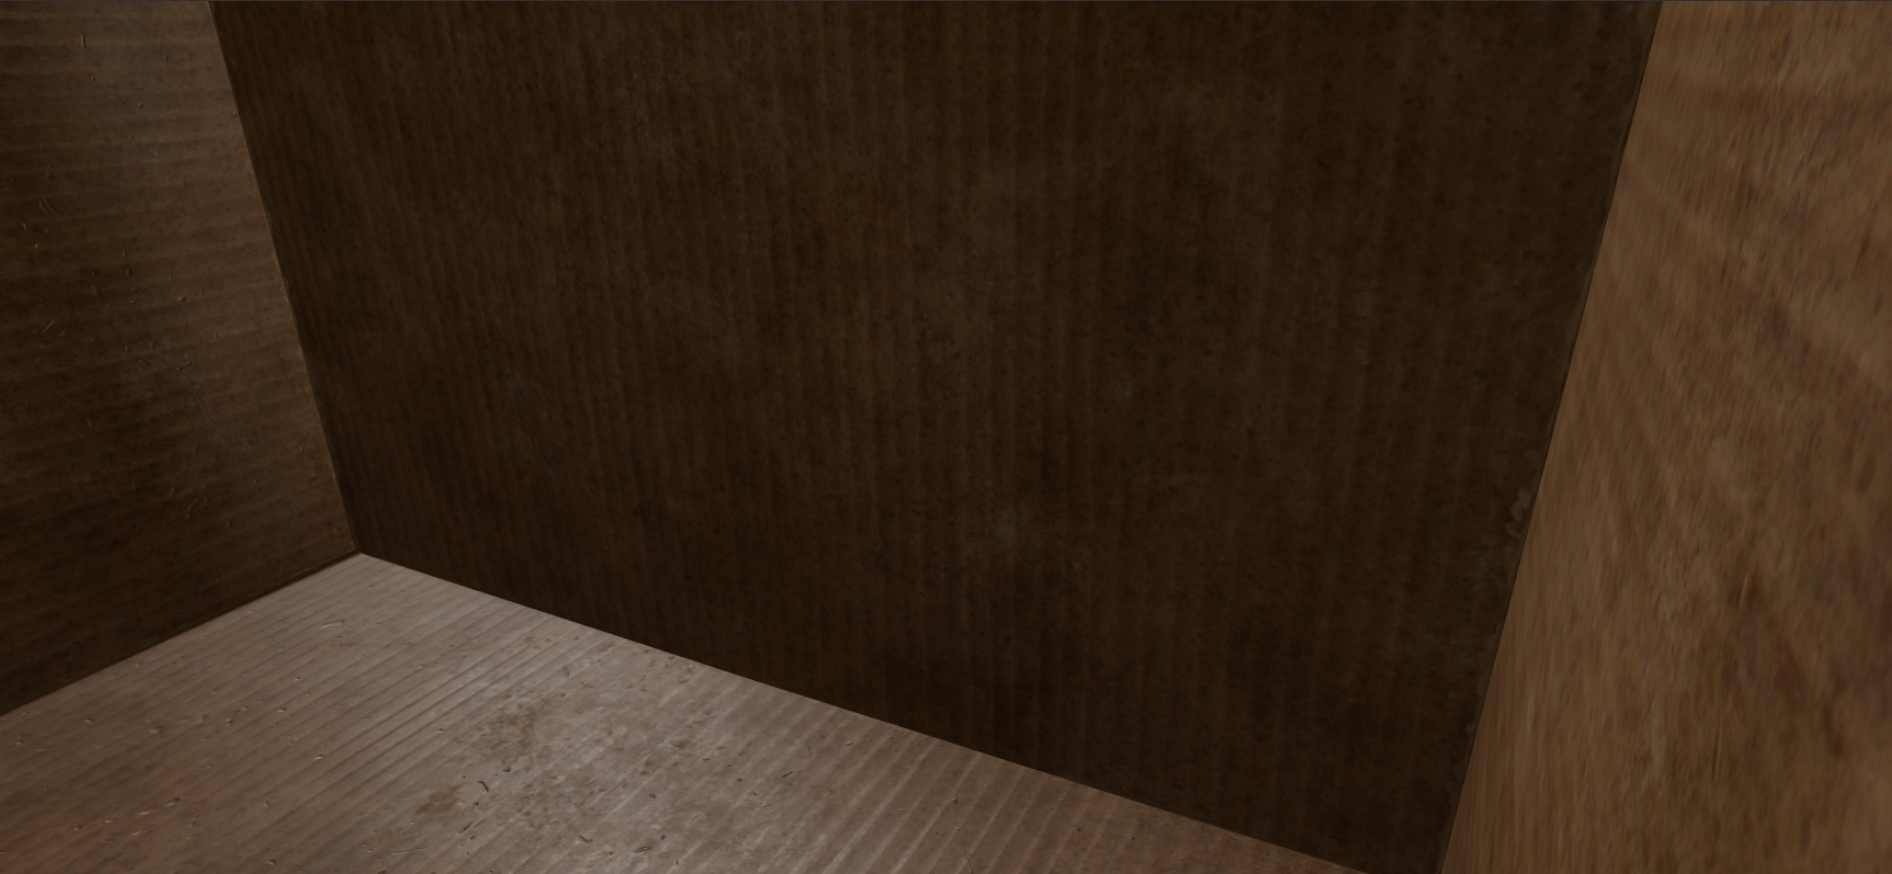
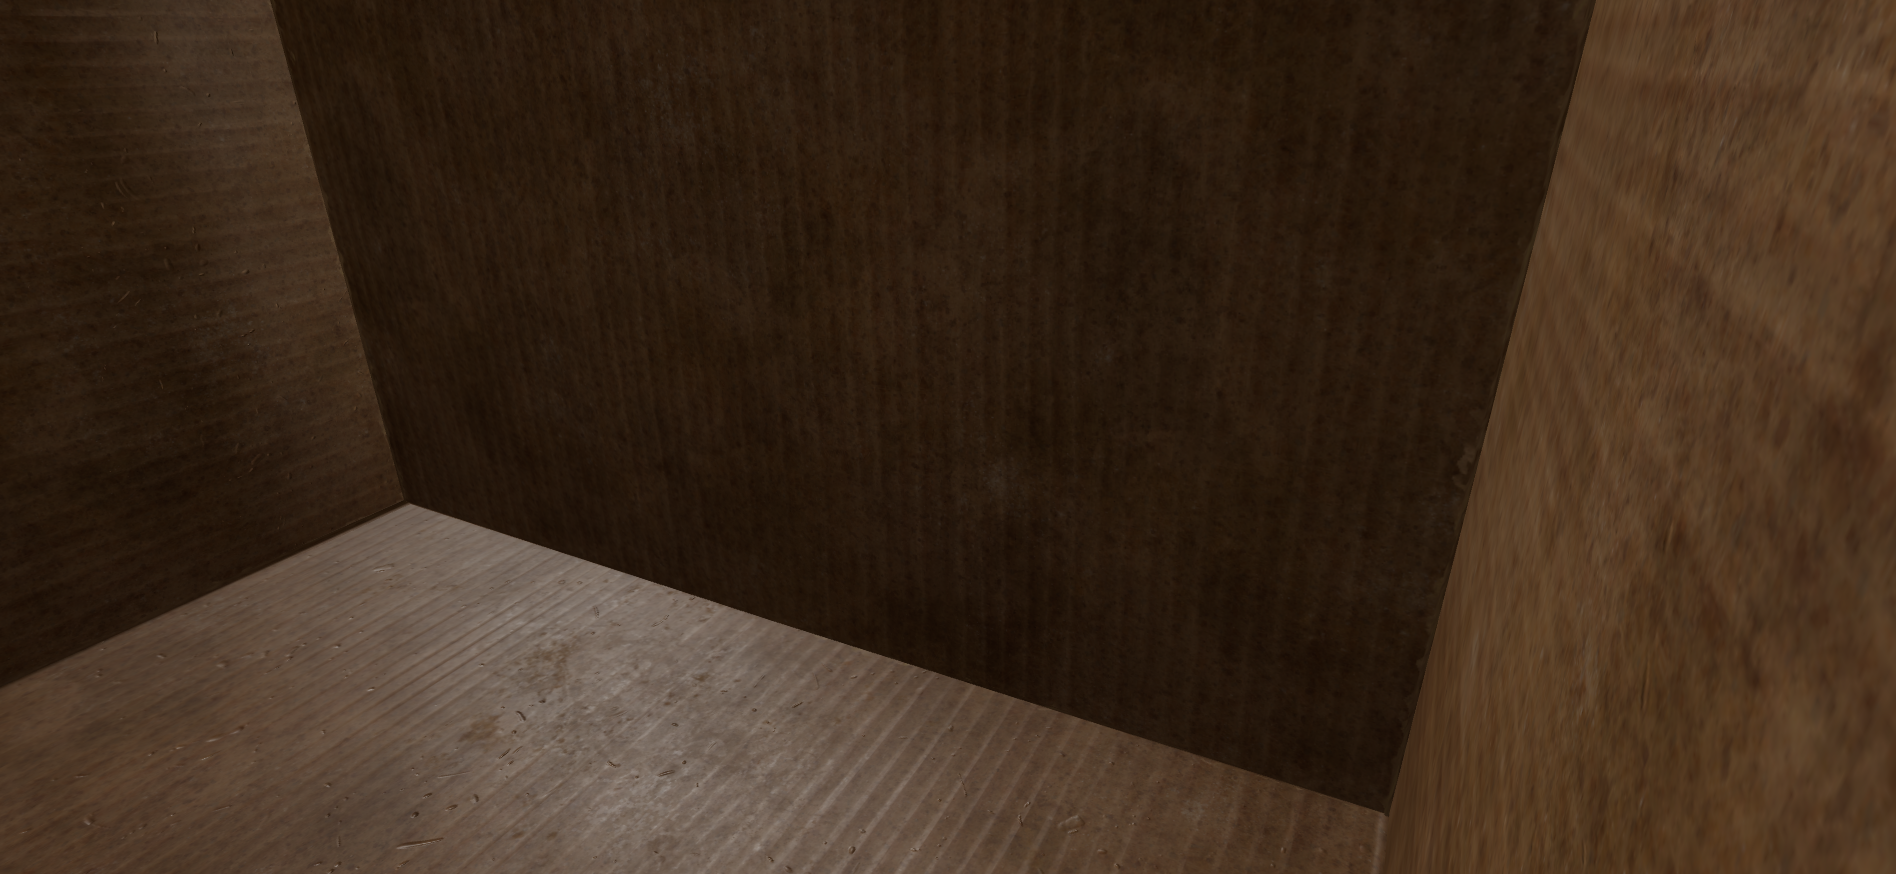
rotation changes

diff --git a/frontend/src/canvas/index.jsx b/frontend/src/canvas/index.jsx
@@ -10,12 +10,15 @@ const CanvasModel = () => {
             {/* Background Canvas */}
             <Canvas
                 className="absolute top-0 left-0 w-full h-full -z-10"
+                style={{ background: "#1a1a1a" }}
                 camera={{ position: [-2,2,-4], fov: 50 }}
             >
                 <ambientLight intensity={0.5} />
                 <directionalLight position={[5, 5, 5]} intensity={1} />
                 <OrbitControls
                     enableZoom={false}
+                    autoRotate
+                    autoRotateSpeed={0.2}
                 />
                 <NewBox />
             </Canvas>

diff --git a/frontend/src/index.css b/frontend/src/index.css
@@ -93,7 +93,7 @@ html {
   font-family: "Zain", sans-serif;
   font-weight: 200;
   font-style: normal;
-  
+
 }
 
 .nav-item::after {
